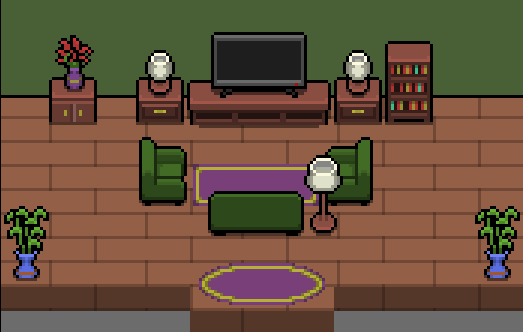
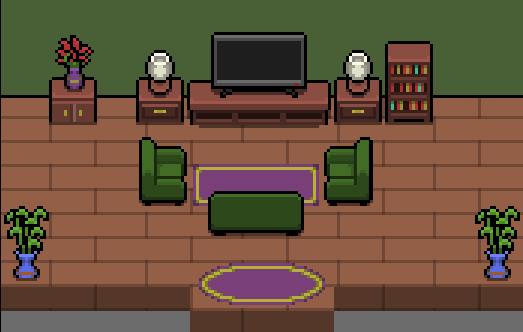
added all colision for living room and set up correct arrows for the future minigames

Changed region(s): [[0.5813, 0.4217, 0.7036, 0.7229]]

diff --git a/livingRoom.js b/livingRoom.js
@@ -12,14 +12,14 @@ class livingRoom extends Phaser.Scene{
       this.load.image("background","assets/livingRoom.png");
       this.load.image("arrow", "assets/arrow.png");
       this.load.image("player", "assets/chracter1.png");
-      this.load.image("foodbowl", "assets/foodbowl.png");
-      this.load.image("trash", "assets/trash-icon.jpg");
       this.load.image("counter", "assets/counter.png");
       this.load.image("sinkFridge", "assets/sinkFridge.png");
       this.load.image("leftWall", "assets/leftWall.png");
       this.load.image("right", "assets/right.png");
       this.load.image("bottom", "assets/bottom.png");
       this.load.image("table", "assets/table.png");
+      this.load.image("couchBarrier", "assets/couchBarrier.png");
+      this.load.image("chairBarrier", "assets/chairBarrier.png");
       
   }
   create(){
@@ -34,11 +34,17 @@ class livingRoom extends Phaser.Scene{
       var right = this.physics.add.image(0, 0, "right");
       var bottom = this.physics.add.image(0, 0, "bottom");
       var table = this.physics.add.image(0, 0, "table");
+      var couchBarrier = this.physics.add.image(0, 0, "couchBarrier");
+      var chairBarrierR = this.physics.add.image(0, 0, "chairBarrier");
+      var chairBarrierL = this.physics.add.image(0, 0, "chairBarrier");
       //this.walls.add(counter);
       this.walls.add(sinkFridge);
       this.walls.add(leftWall);
       //this.walls.add(right);
       this.walls.add(bottom);
+      this.walls.add(couchBarrier);
+      this.walls.add(chairBarrierR);
+      this.walls.add(chairBarrierL);
       //this.walls.add(table);
       counter.setImmovable(true);
       sinkFridge.setImmovable(true);
@@ -46,38 +52,22 @@ class livingRoom extends Phaser.Scene{
       right.setImmovable(true);
       bottom.setImmovable(true);
       table.setImmovable(true);
+      couchBarrier.setImmovable(true);
+      chairBarrierR.setImmovable(true);
+      chairBarrierL.setImmovable(true);
       counter.setPosition(678, 303);
       sinkFridge.setPosition(450, 90);
       leftWall.setPosition(20, 65);
       right.setPosition(742, 200);
       bottom.setPosition(500, 520);
       table.setPosition(195, 312);
-      //load trash can 
-      var trash = this.physics.add.image(0, 0, "trash");
-      trash.setPosition(450, 340); // 400 310
-      trash.setScale(0.2);
-      trash.setImmovable(true);
-
-      // arrow icon for trash can 
-      var trashArrow = this.add.image(0, 0, "arrow");
-      trashArrow.setPosition(450, 300);
-      // Arrow click event => enter trash pickup mini-game scene
-
-      trashArrow.setInteractive().on('pointerdown', function (pointer) {
-          // Limit the character to a certain range of the trash can to click to trigger
-          var x = this.player.body.position.x;
-          var y = this.player.body.position.y;
-          if ((x > 350 && x < 500) && (y < 400 && y > 250)) {
-              this.scene.start("trashGame", {
-                  'posX': x + 27.8,
-                  'posY': y + 44.45
-              })
-          }
-      }, this)
+      couchBarrier.setPosition(390, 290);
+      chairBarrierL.setPosition(245, 220);
+      chairBarrierR.setPosition(535, 220);
 
       // watering arrow
       var flowerArrow = this.add.image(0, 0, "arrow");
-      flowerArrow.setPosition(45, 330);
+      flowerArrow.setPosition(42, 330);
       
       // flower mini game
       flowerArrow.setInteractive().on('pointerdown', function (pointer) {
@@ -86,35 +76,36 @@ class livingRoom extends Phaser.Scene{
           var y = this.player.body.position.y;
         
           if ((x < 100 && x > 0) && (y < 450 && y > 250)) {
-              this.scene.start("Sflower", {
+              /*this.scene.start("Sflower", {
                   'posX': x + 27.8,
                   'posY': y + 44.45
-              })
+              })*/
+              console.log("start minigame")
           }
       }, this)
-
-      var foodbowl = this.add.image(0, 0, "foodbowl");
-      foodbowl.setPosition(30, 165);
-      foodbowl.setScale(1.75);
-      var foodArrow = this.add.image(0, 0, "arrow");
-      foodArrow.setPosition(30, 135);
 
       this.player = this.physics.add.sprite(this.lastPosX, this.lastPosY, "player");
       this.player.setScale(0.1);
       this.player.setCollideWorldBounds(true);
       this.cursorKeys = this.input.keyboard.createCursorKeys();
-      var dishArrow = this.add.image(0, 0, "arrow");
-      dishArrow.setPosition(650, 90);
-      dishArrow.setInteractive().on('pointerdown', function (pointer) {
-      if(this.player.body.position.x > 525 && this.player.body.position.y < 165){
-            // Go to dishwashing minigame
-            this.scene.start("dishWashing", {'posX': this.player.body.position.x + 27.8, 'posY': this.player.body.position.y + 44.45});
+
+      var bookArrow = this.add.image(0, 0, "arrow");
+      bookArrow.setPosition(622, 70);
+      bookArrow.setInteractive().on('pointerdown', function (pointer) {
+      if(this.player.body.position.x > 525 && this.player.body.position.y < 165 && this.player.body.position.x < 660){
+            //replace "dishWashing" with the name of the bookshelf minigame scene
+            console.log("start minigame")
+            //this.scene.start("dishWashing", {'posX': this.player.body.position.x + 27.8, 'posY': this.player.body.position.y + 44.45});
         }
       }, this);
       
-      foodArrow.setInteractive().on('pointerdown', function (pointer) {
-        if(this.player.body.position.x < 60 && this.player.body.position.y < 175){
-          this.scene.start("dogFeeding", {'posX': this.player.body.position.x + 27.8, 'posY': this.player.body.position.y + 44.45});
+      var carpetArrow = this.add.image(0, 0, "arrow");
+      carpetArrow.setPosition(390, 250);
+      carpetArrow.setInteractive().on('pointerdown', function (pointer) {
+        if(this.player.body.position.x > 270 && this.player.body.position.x < 450 && this.player.body.position.y < 230 && this.player.body.position.y > 150){
+            //replace "dogFeeding" with the name of the vacuum minigame scene
+            console.log("start minigame")
+            //this.scene.start("dogFeeding", {'posX': this.player.body.position.x + 27.8, 'posY': this.player.body.position.y + 44.45});
         }
       }, this);
 
